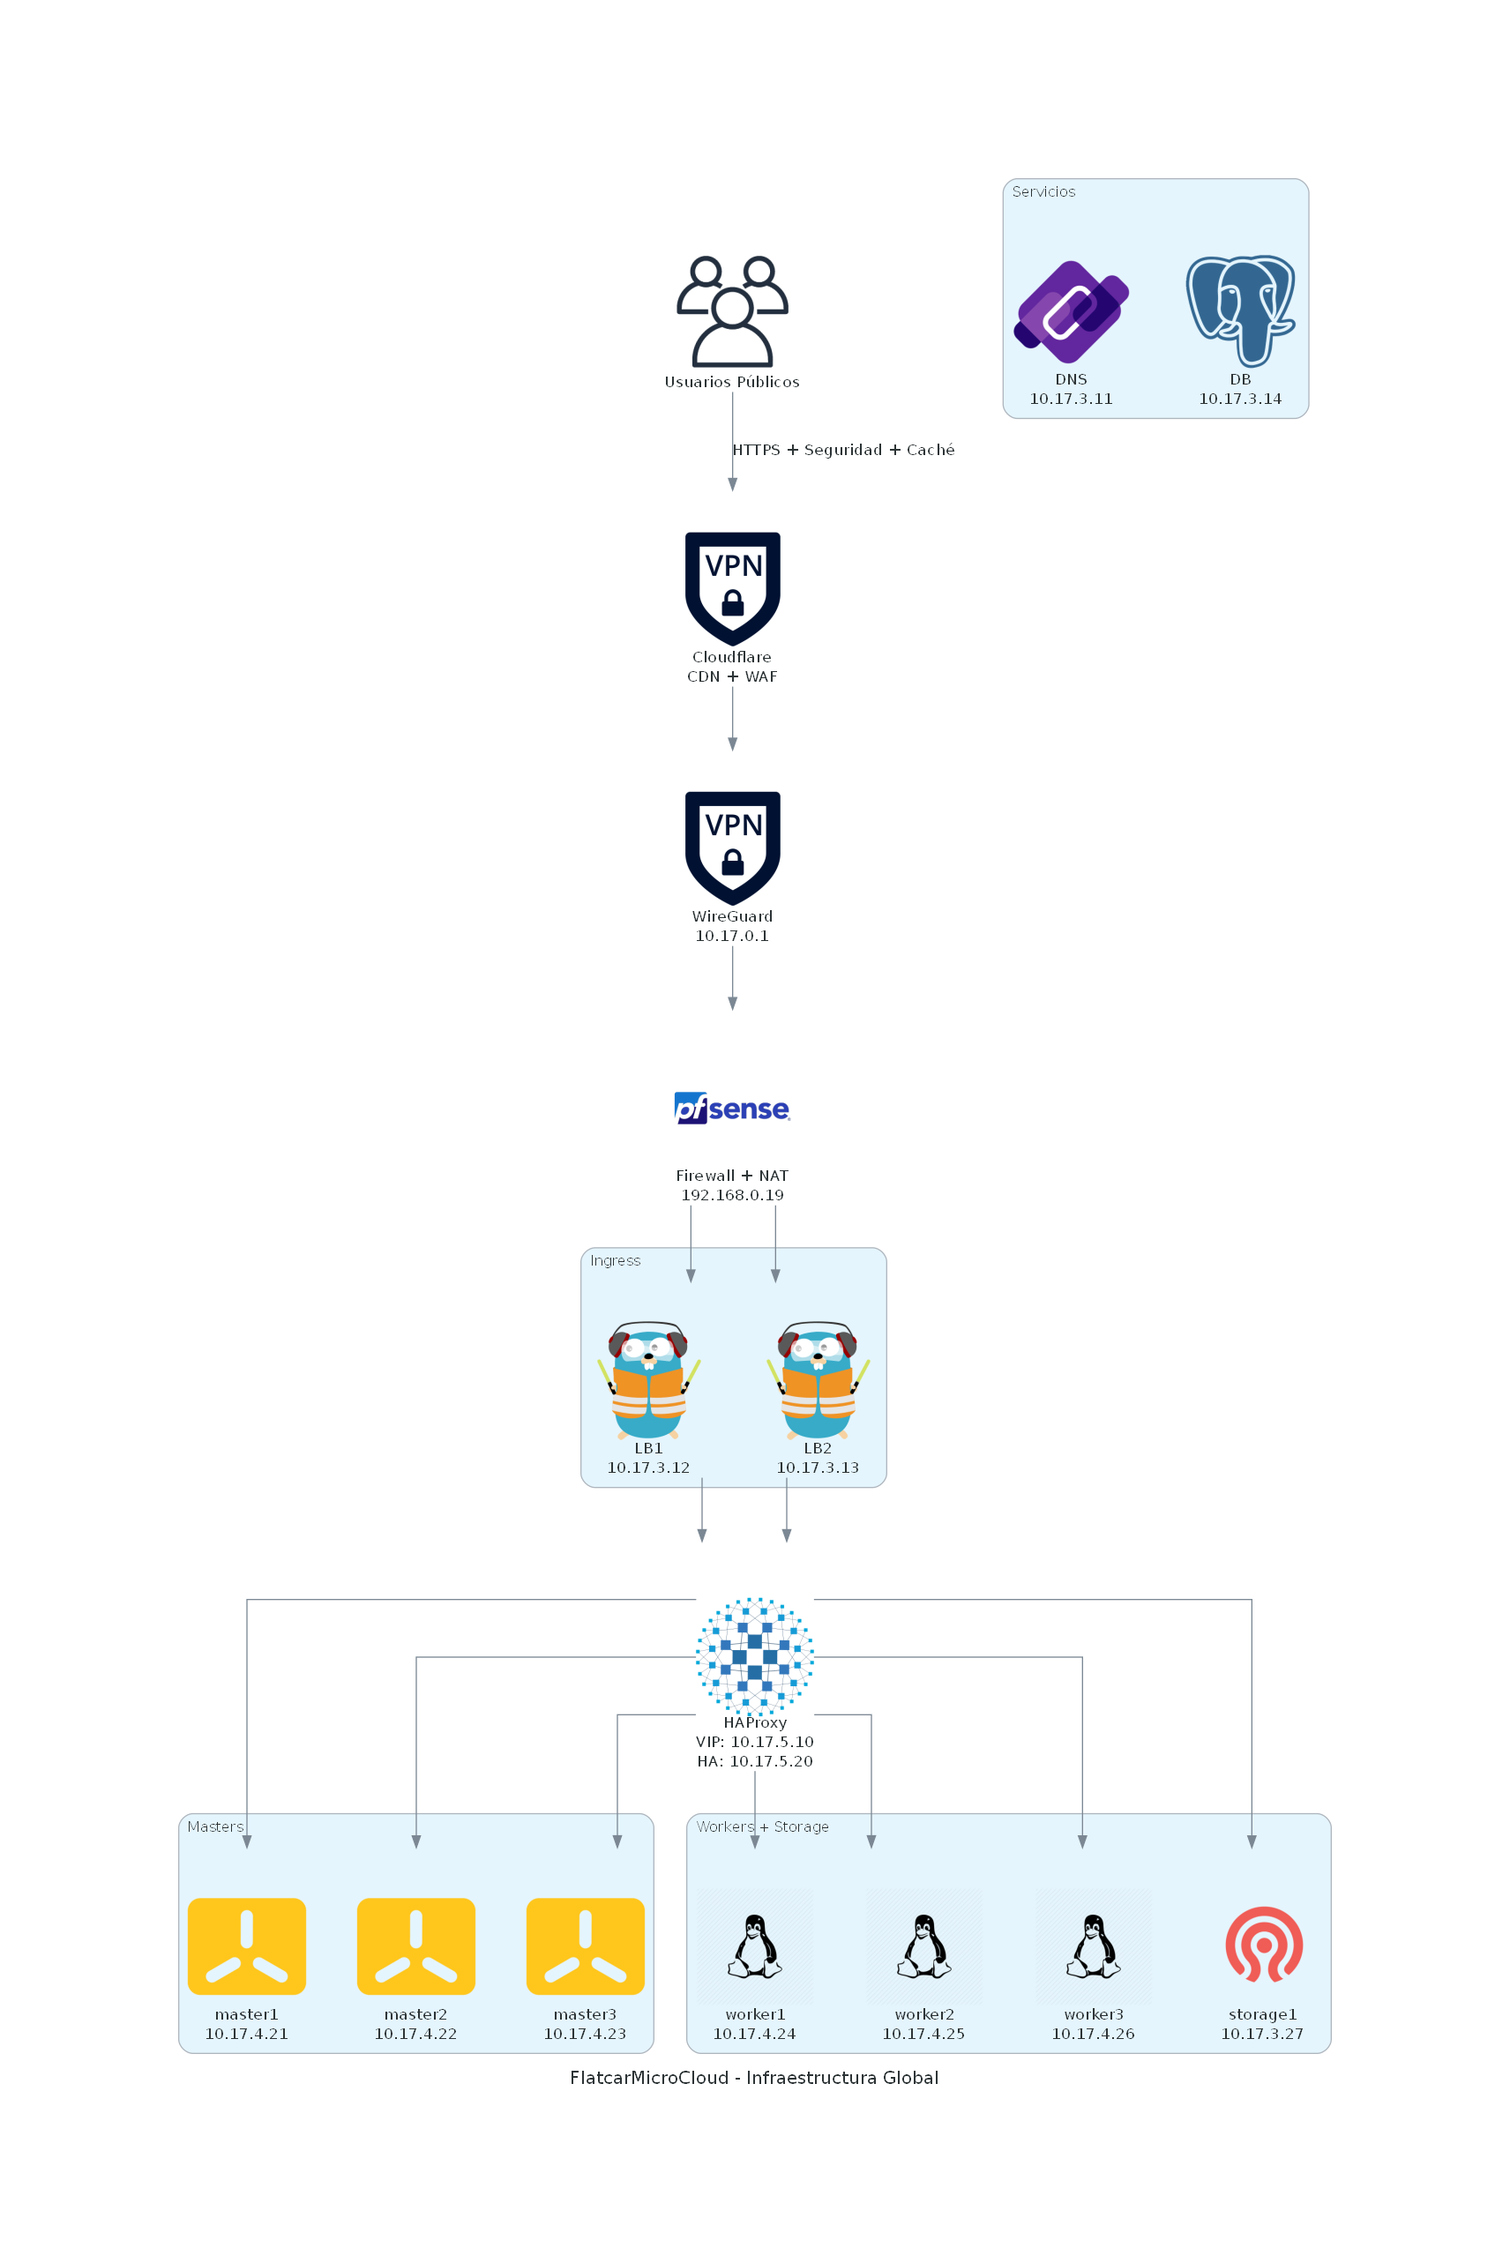
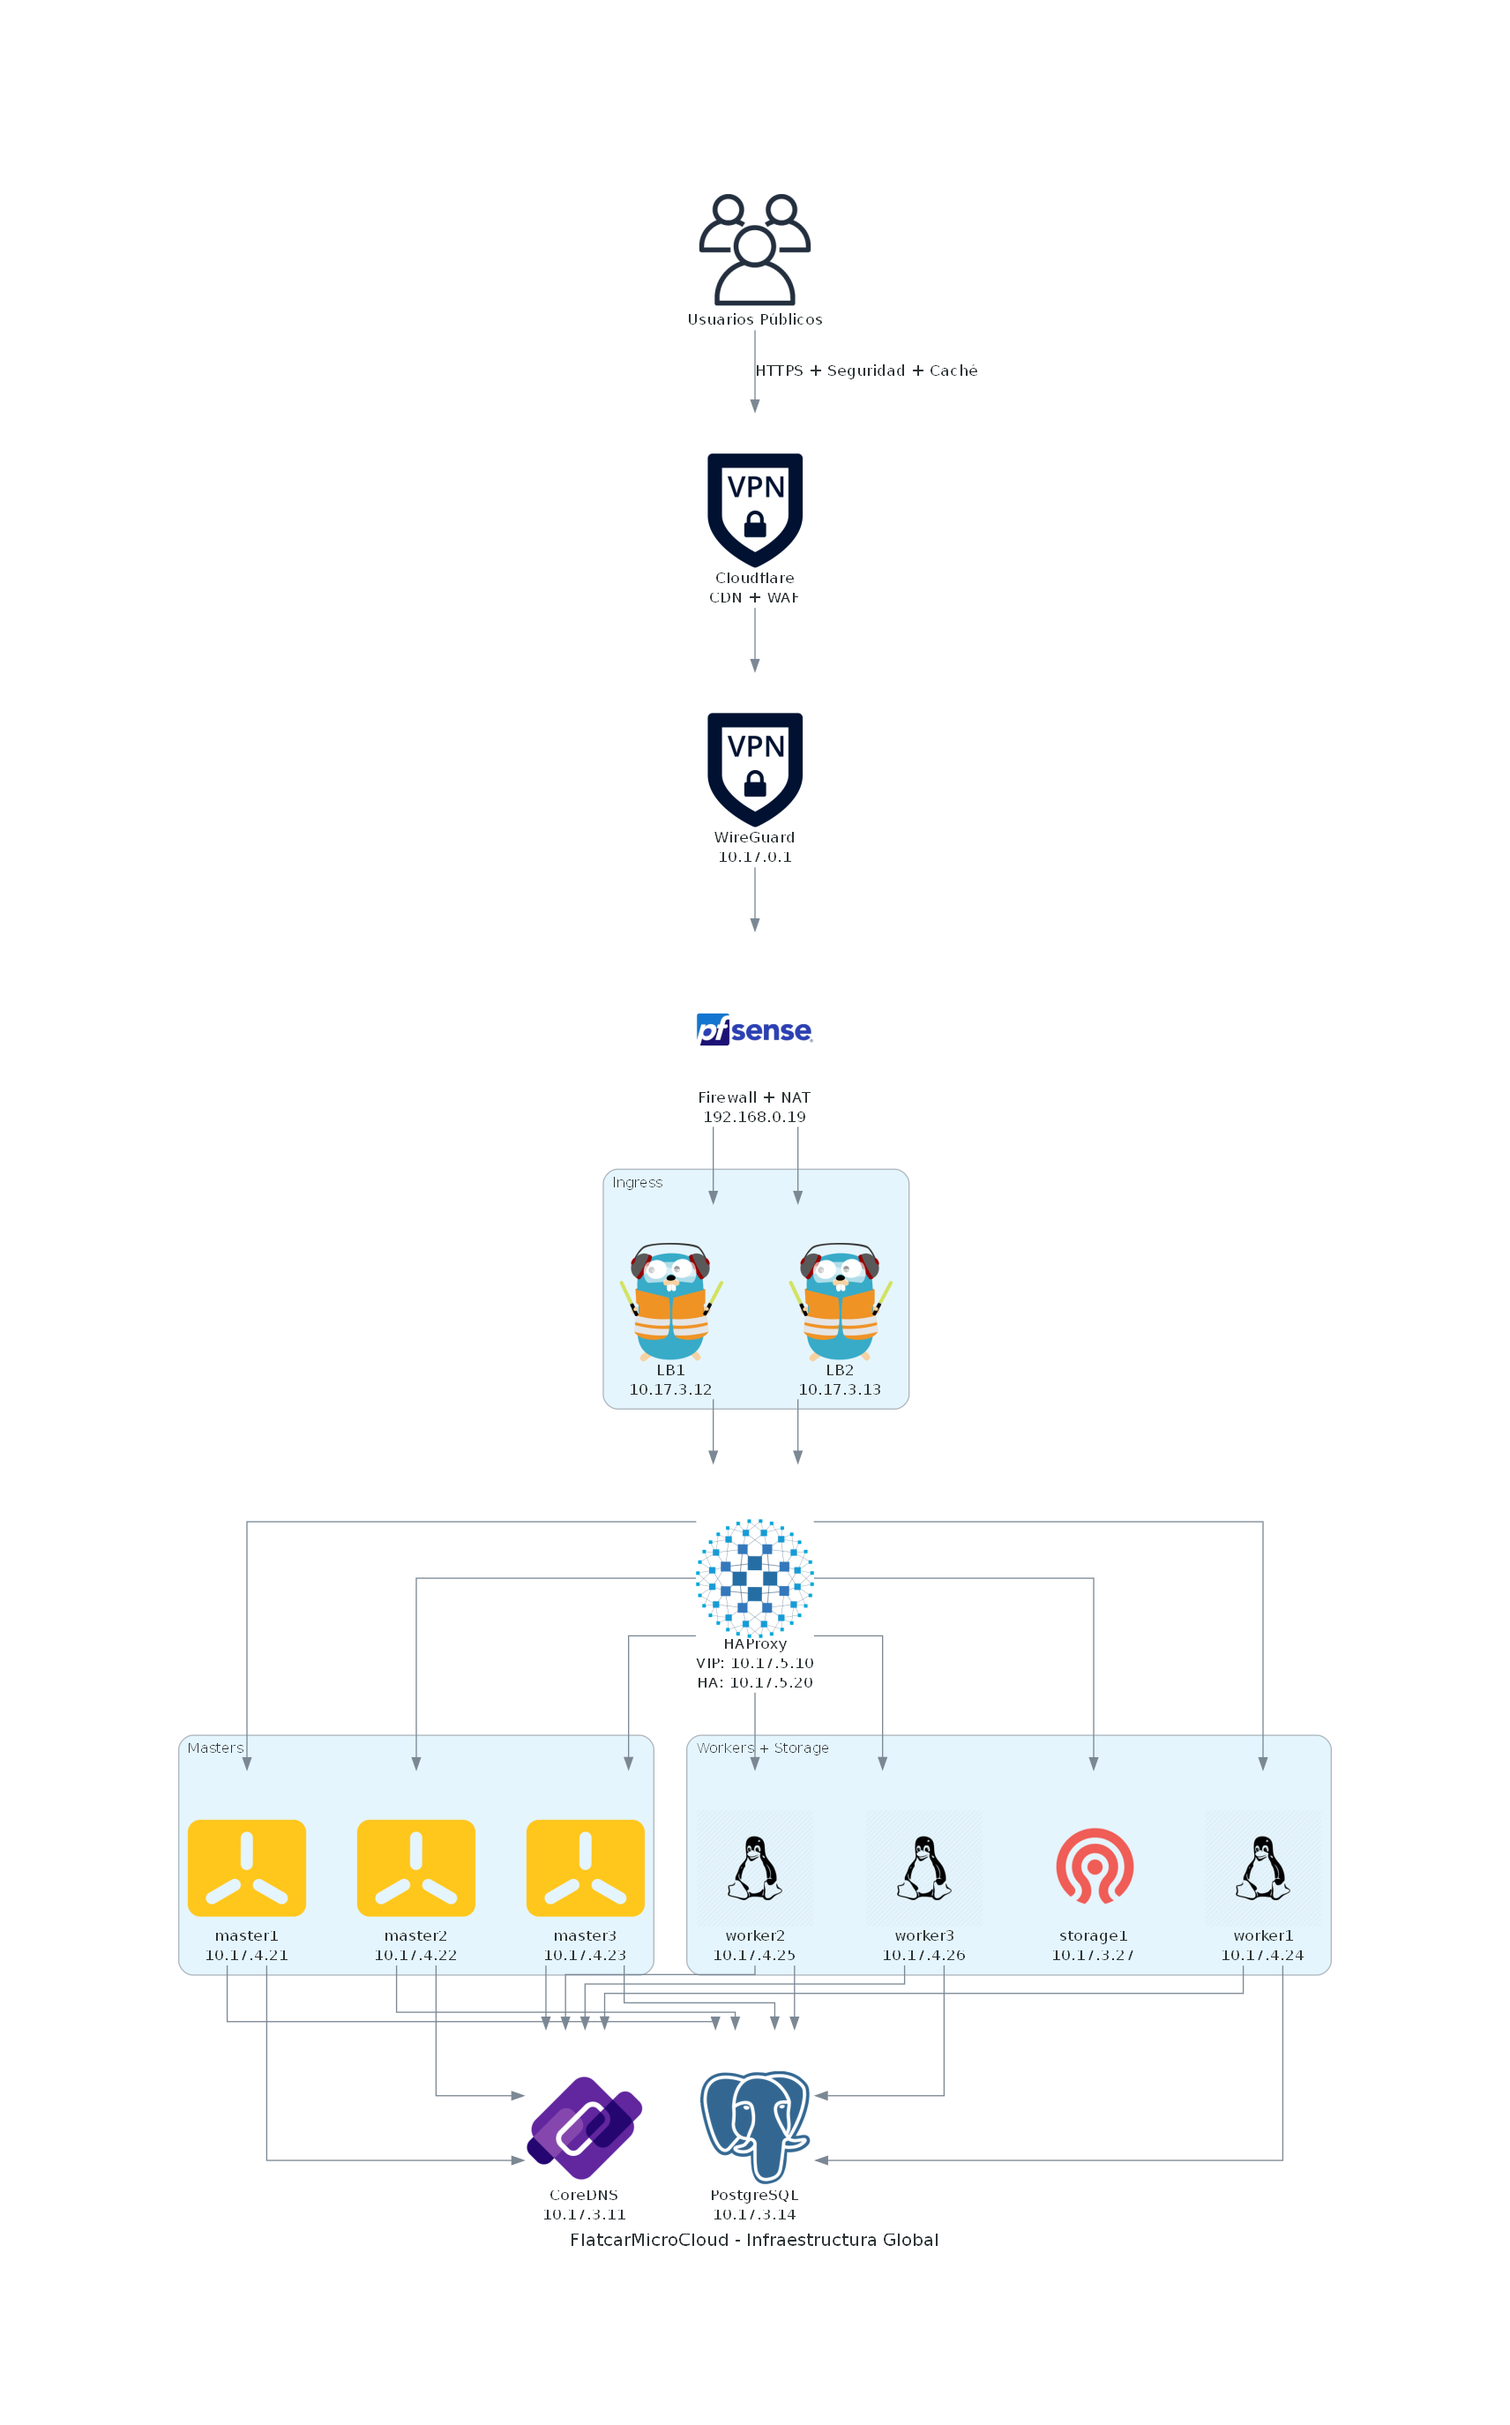
update

Changed region(s): [[0.0929, 0.0624, 0.8978, 0.9353], [0.6501, 0.0624, 0.8668, 0.1871]]

diff --git a/arquitectura_FlatcarMicroCloud.py b/arquitectura_FlatcarMicroCloud.py
@@ -8,6 +8,7 @@ from diagrams.onprem.storage import Ceph
 from diagrams.generic.os import LinuxGeneral
 from diagrams.onprem.dns import Coredns
 from diagrams.onprem.database import Postgresql
+from diagrams.generic.blank import Blank  # Para nodo invisible
 
 with Diagram("FlatcarMicroCloud - Infraestructura Global", show=False, direction="TB", outformat="png"):
 
@@ -43,12 +44,13 @@ with Diagram("FlatcarMicroCloud - Infraestructura Global", show=False, direction
         s1 = Ceph("storage1\n10.17.3.27")
     haproxy >> [w1, w2, w3, s1]
 
-    # Servicios vinculados a la arquitectura
+    # Servicios
     dns = Coredns("CoreDNS\n10.17.3.11")
     db = Postgresql("PostgreSQL\n10.17.3.14")
 
-    # DNS se conecta a Masters y Workers
-    [m1, m2, m3, w1, w2, w3] >> dns
+    # Nodo lógico para simplificar conexión
+    infra = Blank("Infraestructura")
 
-    # PostgreSQL se usa por Workers y Masters
-    [m1, m2, m3, w1, w2, w3] >> db
+    [m1, m2, m3, w1, w2, w3] >> infra
+    infra >> dns
+    infra >> db
